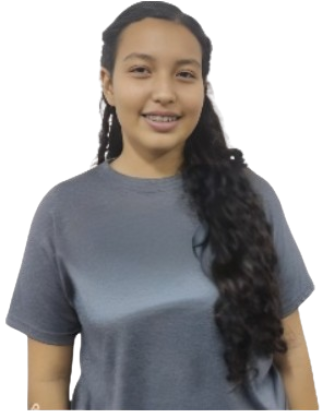
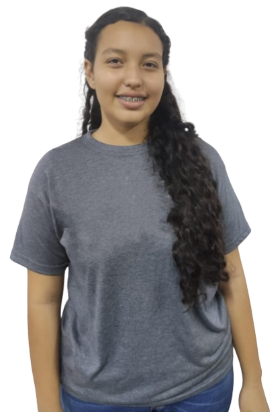
feat: :sparkles: fotos

diff --git a/src/index.css b/src/index.css
@@ -149,11 +149,10 @@ li a.active, li a:hover{
 }
 .container-primera img{
   /* background-color:  #f1b3d4ee; */
-  width:60%;
+  width:50%;
   height: auto;
   mask-image: linear-gradient( black 80%, transparent);
-  
-
+  filter: drop-shadow(0.5px 0.5px 15px #fd76b95f);
 }
 .text-uno{
   display: flex;
@@ -467,12 +466,12 @@ a{
   height: 150px;
   position: relative;
   transform-style: preserve-3d;
-  transition: transform 0.2s ease-in-out; /* Animación más fluida */
+  transition: transform 0.2s ease-in-out;
 }
 
 .tarjeta:active {
-  transform: rotateY(180deg); /* Voltea la tarjeta cuando se hace hover */
-}
+  transform: rotateY(180deg);
+} 
 
 .cara {
   position: absolute;
